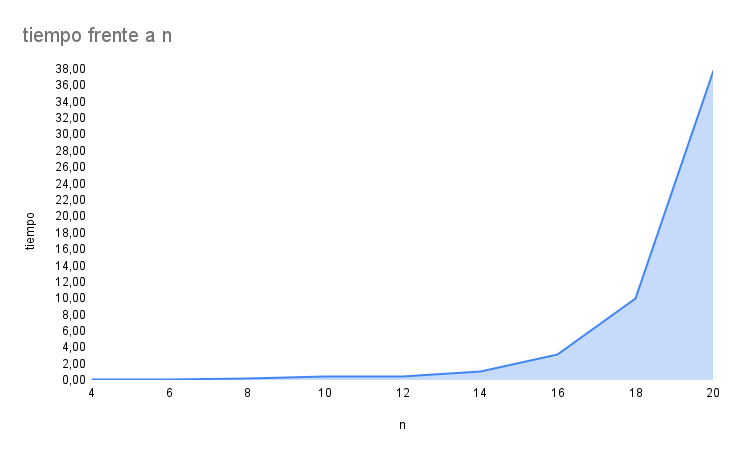
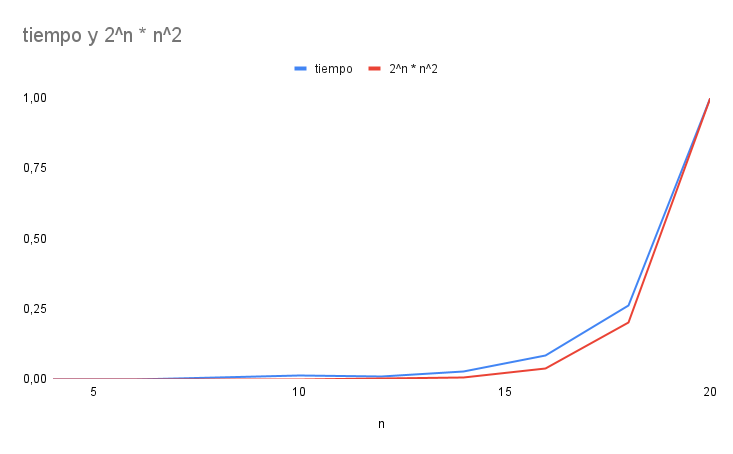
INforme de complejidad experimental

diff --git a/docs/business-party-dynamic.md b/docs/business-party-dynamic.md
@@ -89,3 +89,13 @@ O(n^2)
 $$
 
 por la conversión de matriz de adyacencia a lista de adyacencia, que es el paso más costoso. El algoritmo dinámico en sí tiene complejidad lineal, pero no domina la complejidad total.
+
+## Análisis de Complejidad Temporal Experimental
+
+Se realizaron múltiples ejecuciones del algoritmo con diferentes tamaños de entrada: 10, 50, 100, 400, 700, 1000, 3000 y 5000. Estos tamaños fueron seleccionados teniendo en cuenta el máximo valor que soporta el equipo de pruebas sin comprometer la estabilidad del sistema.
+
+Por otro lado, se realizó la comparación gráfica entre la curva de tiempos de ejecución del algoritmo (representada en color azul) y la función cuadrática $$O(n^2)$$ (representada en color rojo). Se puede evidenciar cómo ambas presentan un comportamiento similar, con algunas variaciones que pueden deberse a factores externos como la carga del sistema, el recolector de basura del entorno de ejecución u otros procesos corriendo en segundo plano.
+
+En general, los resultados experimentales confirman la hipótesis teórica de que el algoritmo presenta una complejidad de tipo cuadrática. A continuación, se muestra la gráfica que evidencia esta comparación:
+
+![Comparación entre tiempo de ejecución y función cuadrática](./imgs/business-party-dynamic.png)

diff --git a/docs/business-party-brute-force.md b/docs/business-party-brute-force.md
@@ -43,7 +43,7 @@ A continuación se muestra la gráfica obtenida:
 
 ![Gráfica de complejidad experimental](./imgs/business-party-brute-force.png)
 
-Esta gráfica permite identificar visualmente cómo crece el tiempo de ejecución en función del tamaño del problema, facilitando así la estimación de su complejidad temporal de forma experimental.
+Esta gráfica permite identificar visualmente cómo crece el tiempo de ejecución en función del tamaño del problema, facilitando así la estimación de su complejidad temporal de forma experimental. También se puede evidenciar como la comparación entre la complejidad teorica y exprimental es similiar con ligeras variaciones que pueden ser explicadas con elementos externos al algoritmo.
 
 Analizando la gráfica, se puede observar que la complejidad del algoritmo crece de forma exponencial, lo cual concuerda con el análisis teórico realizado previamente.
 
